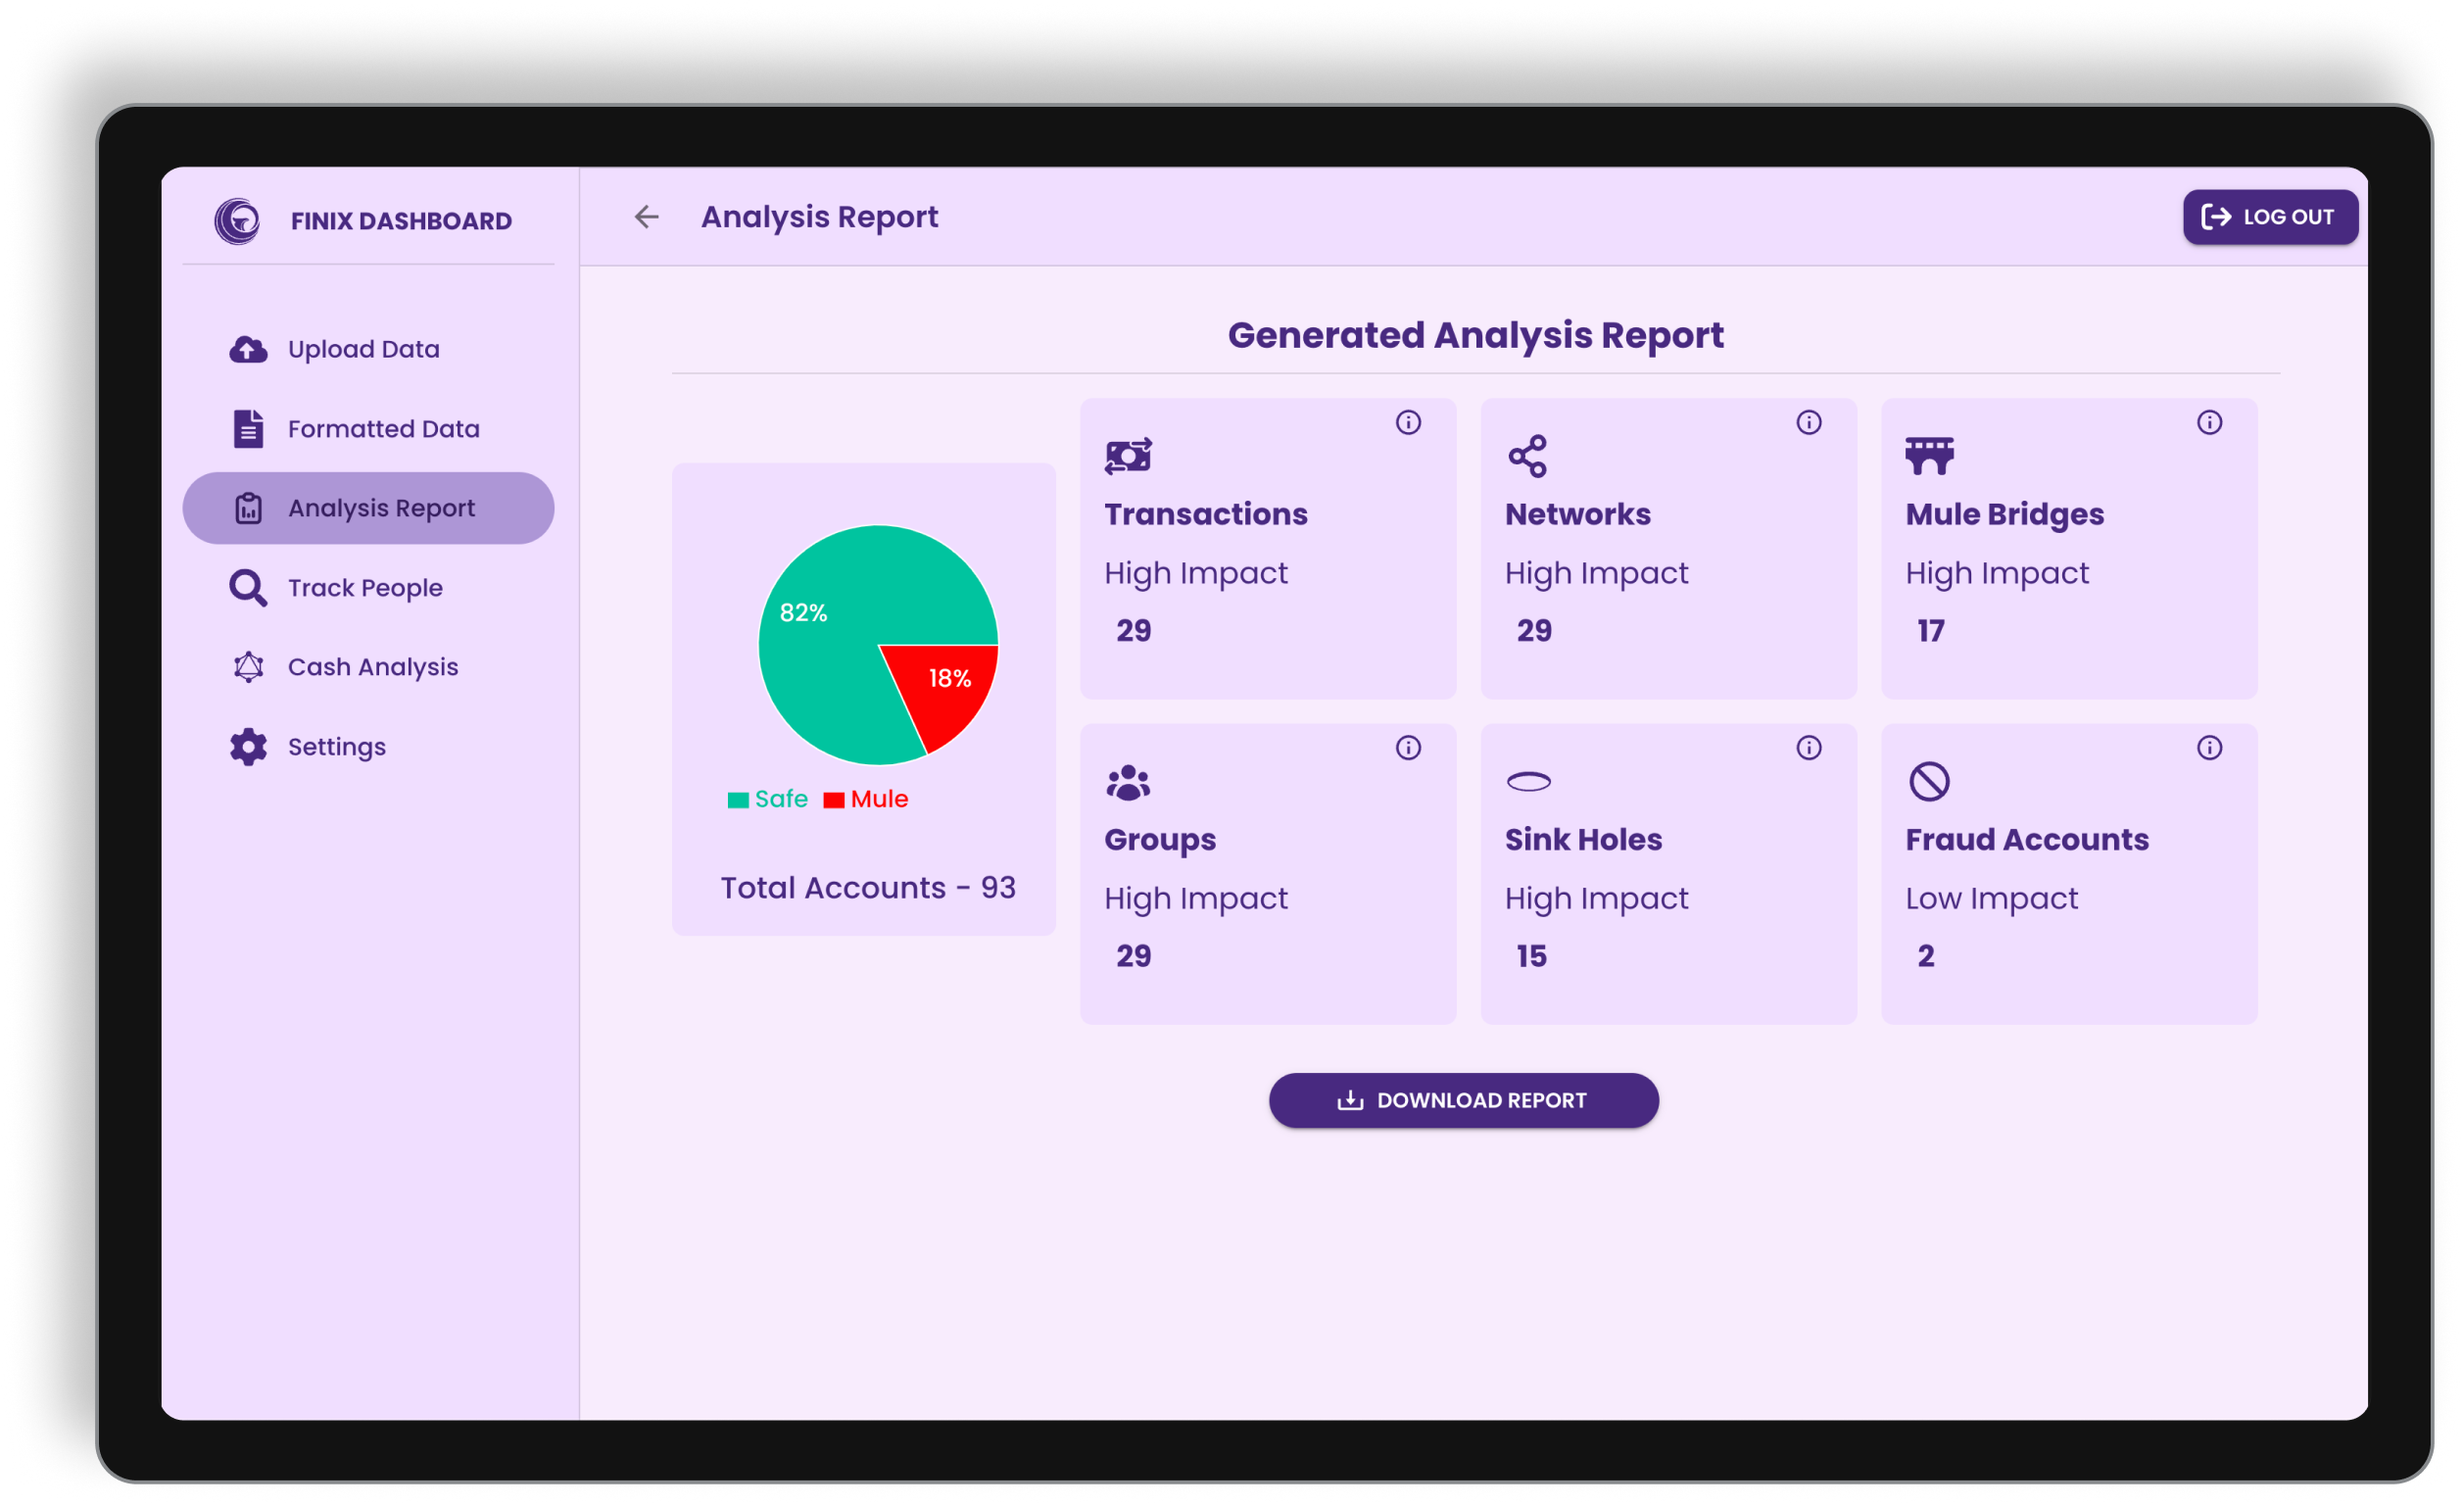
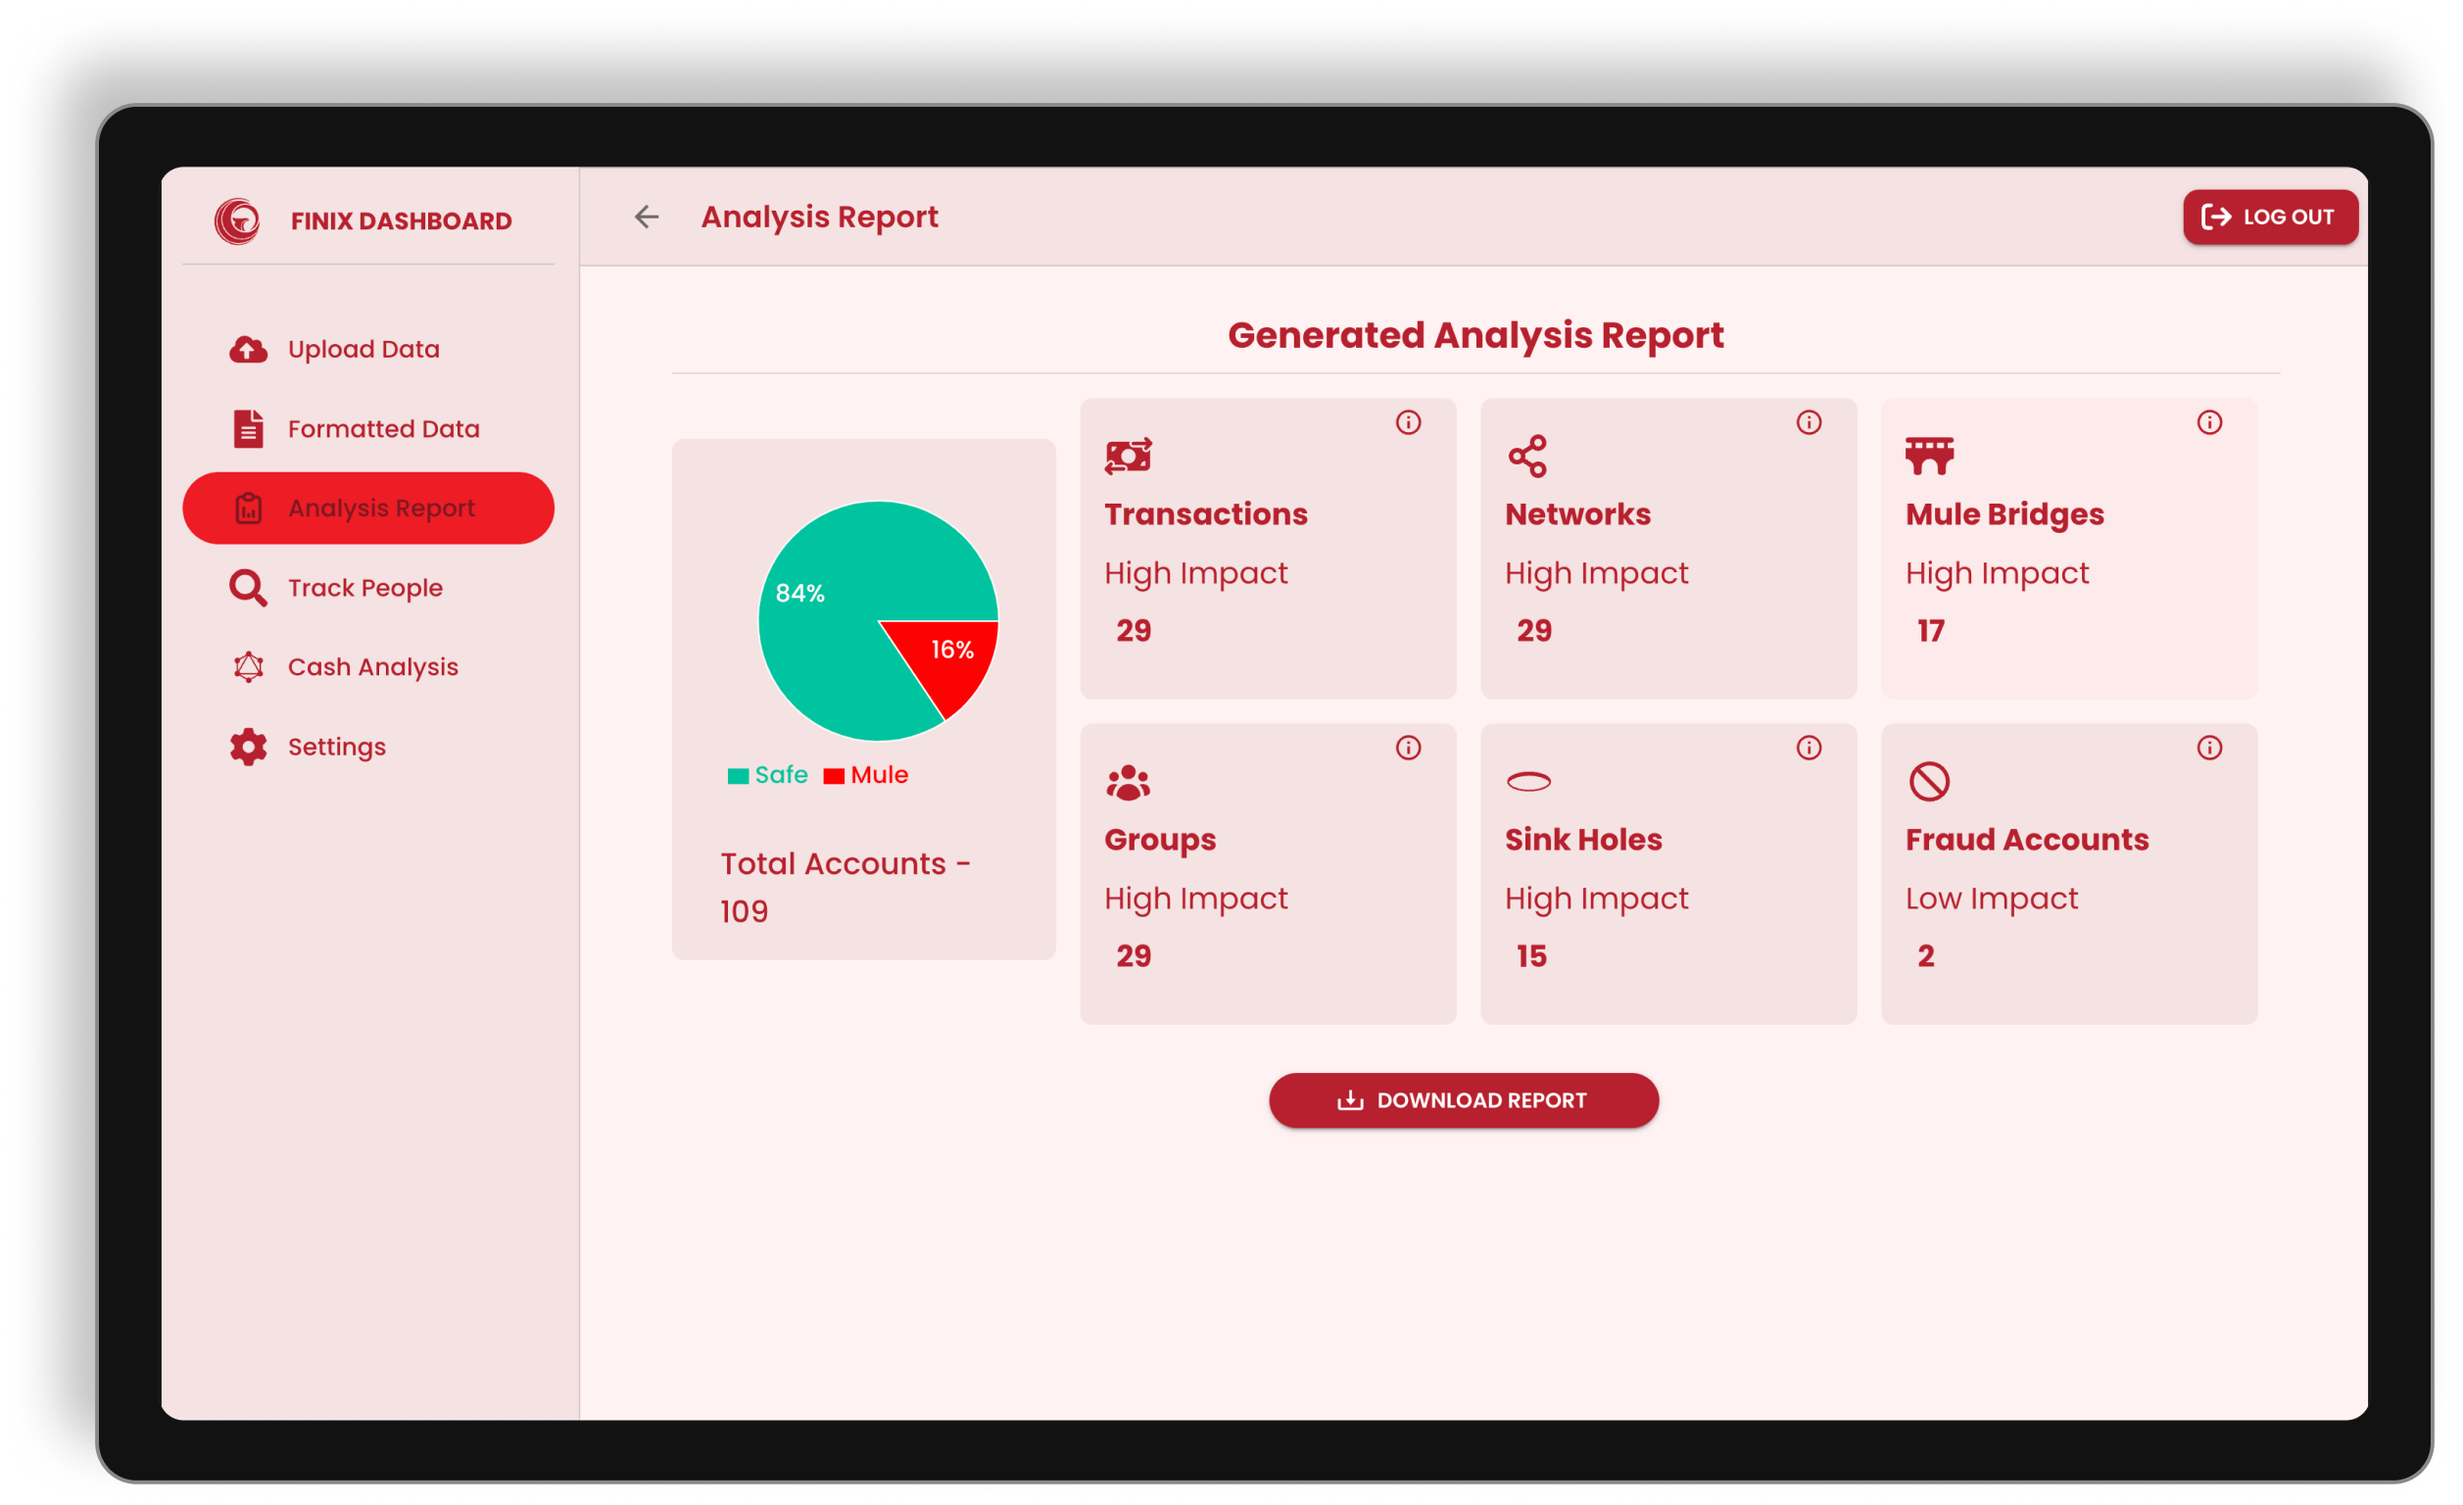
feat: theme changes

diff --git a/frontend/src/theme/ThemeProvider.js b/frontend/src/theme/ThemeProvider.js
@@ -5,25 +5,27 @@ const StyleThemeProvider = (props) => {
     palette: {
       type: 'light',
       primary: {
-        main: '#482880',
-        light: '#ad96d6',
-        dark: '#361e5e',
+        main: '#B7202E',
+        light: '#ED1C24',
       },
       secondary: {
-        main: '#8561c5',
-      },
-      text: {
-        primary: '#161616',
-        secondary: 'rgba(22,22,22,0.75)',
-        disabled: 'rgba(22,22,22,0.5)',
-        hint: 'rgba(22,22,22,0.65)',
+        main: '#004a9c',
+        light: '#006699',
+        dark: '#004466',
       },
       background: {
-        default: '#F8ECFD',
-        paper: '#f0deff',
+        paper: '#f5e3e3',
+        default: '#FFF2F2',
       },
       error: {
         main: '#f44336',
+      },
+      // divider: '#58595B',
+      text: {
+        primary: '#231F20',
+        disabled: '#58595B',
+        hint: 'rgba(88,89,91,0.7)',
+        secondary: 'rgba(35,31,32,0.9)',
       },
     },
     typography: {

diff --git a/frontend/src/pages/Landing/Login.jsx b/frontend/src/pages/Landing/Login.jsx
@@ -82,7 +82,7 @@ function Login() {
         }}
       >
         <img
-          src="/stats-bg-gradient.svg"
+          src="/stats-bg-gradient.png"
           alt=""
           style={{
             position: 'absolute',
